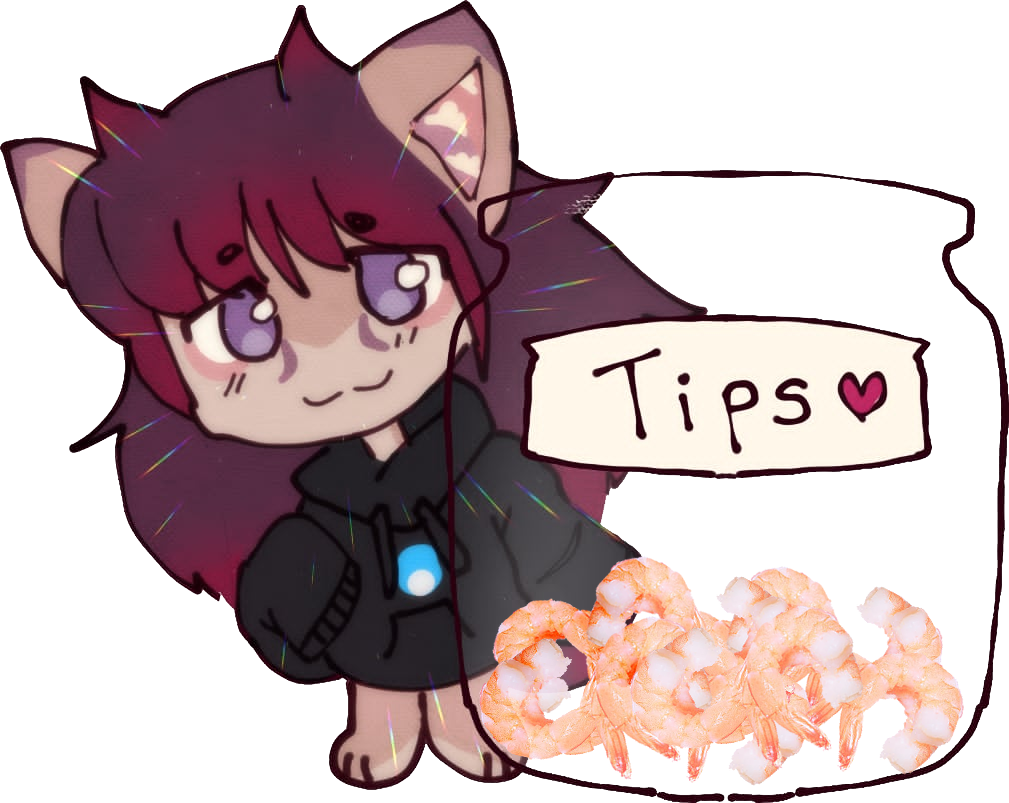
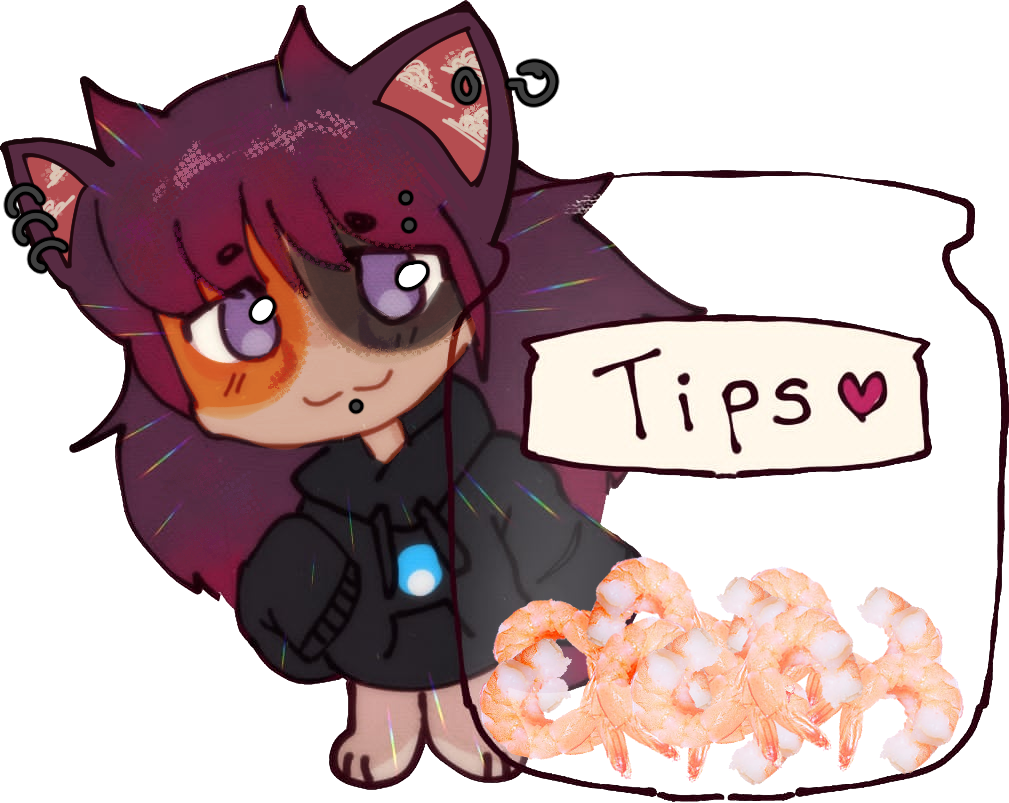
Updated images.

diff --git a/index.html b/index.html
@@ -1,12 +1,12 @@
 <!DOCTYPE html>
 <html lang="en">
 <head>
-	<meta name="generator" content="Hugo 0.160.1"><script src="/livereload.js?mindelay=10&amp;v=2&amp;port=1313&amp;path=livereload" data-no-instant defer></script>
+	<meta name="generator" content="Hugo 0.160.1">
     <meta charset="UTF-8">
     <meta name="viewport" content="width=device-width, initial-scale=1.0">
     <title> || ChabbyTabby</title>
     <link rel="icon" type="image/png" href="/images/introvertkittensignature.png">
-    <link rel="shortcut icon" href="/images/introvertkittensignature.png">
+    <link rel="shortcut icon" href="/images/introvertkittensignature2.png">
     <style>
          
         :root {
@@ -475,7 +475,7 @@
         <div class="top-bar">
             <div class="logo-container">
                 <a href="/">
-                    <img src="/images/introvertkittensignature.png" alt="Introvert Kitten Signature">
+                    <img src="/images/introvertkittensignature.png" alt="Introvert Kitten Signature" style="width: 200px !important; height: auto !important;">
                 </a>
             </div>
             <div class="status-container">
@@ -525,16 +525,15 @@
      
     
      
-    
     .top-art-banner {
-        border: 4px solid var(--hot-pink);
-        border-radius: var(--inner-radius);
+        border: 4px solid var(--hot-pink, #ff007f);  
+        border-radius: var(--inner-radius, 12px);
         overflow: hidden;
         margin-bottom: 25px;
         background: #000;
-        position: relative;  
-        padding-top: 15px;  
-        padding-bottom: 15px;  
+        position: relative;
+        padding-top: 15px;
+        padding-bottom: 15px;
     }
 
     .kitty-bar-overlay {
@@ -543,7 +542,7 @@
         width: 100%;
         height: auto;
         display: block;
-        z-index: 10;  
+        z-index: 10;
     }
     
     .kitty-bar-top { top: -2px; }
@@ -559,94 +558,97 @@
         background: transparent;
         padding: 0;
         box-shadow: none;
-        
-         
-        transition: all 0.2s ease;
     }
     
      
-    .layered-sticker-block:hover img {
-        filter: brightness(1.2) drop-shadow(0 0 10px rgba(255, 255, 255, 0.5));
+    .layered-sticker-block:hover .layered-base-img {
+        filter: brightness(1.1) drop-shadow(0 0 10px rgba(255, 255, 255, 0.3));
+    }
+    .layered-sticker-block:hover .layered-welcome {
+        transform: rotate(-5deg) scale(1.05);  
+        filter: drop-shadow(5px 5px 0px #000);  
+    }
+    .layered-sticker-block:hover .layered-enter {
+        transform: translateX(-50%) translateY(-5px) scale(1.05);  
     }
 
-     
     .layered-image-container {
         position: relative;
         width: 100%;
         text-align: center;
-         
         padding-top: 0; 
         padding-bottom: 0;
     }
 
-     
     .layered-base-img {
         width: 100%;
         max-width: 600px;
         border-radius: 8px;
-        border: 2px solid #333;  
+        border: 2px solid #333;
         display: inline-block;
+        transition: all 0.3s ease;
     }
 
-     
     .layered-welcome {
         position: absolute;
-        top: -20px;  
+        top: -20px; 
         left: -5%;
         max-width: 40%;
-        transform: rotate(-deg);  
-        z-index: 20;  
-        filter: drop-shadow(3px 3px 0px #000);  
+        transform: rotate(-12deg);  
+        z-index: 20; 
+        filter: drop-shadow(3px 3px 0px #000);
+        transition: all 0.3s cubic-bezier(0.25, 0.8, 0.25, 1);  
     }
-    
+
     .layered-label {
         position: absolute;
         top: -12%;
         left: -8%;
         width: 50%;
         max-width: 320px;
-        z-index: 15;            
-        
-         
+        z-index: 15;           
         border-radius: 18px; 
-        
-        box-shadow: 6px 6px 12px rgba(0, 0, 0, 0.6),
-                    inset 0 0 8px rgba(255,255,255,0.3);
-        
-         
+        box-shadow: 6px 6px 12px rgba(0, 0, 0, 0.6), inset 0 0 8px rgba(255,255,255,0.3);
         border: 1px solid #333; 
-        
         background: #000000;
         padding: 4px;
-        transform: rotate(-8deg);    
+        transform: rotate(-8deg);   
     }
+
     .layered-enter {
         position: absolute;
-        bottom: 25px;  
-        left: 30%;
-        transform: translateX(-50%);  
-        max-width: 200%;
-        z-index: 40;  
+        bottom: -5px;  
+        left: 50%;
+        transform: translateX(-50%); 
+        max-width: 60%;  
+        min-width: 150px;  
+        z-index: 40; 
         filter: drop-shadow(2px 2px 0px #000);
+        transition: all 0.3s cubic-bezier(0.25, 0.8, 0.25, 1);
     }
 
      
-    .comm-grid { display: grid; grid-template-columns: 1fr 1fr; gap: 20px; }
-    .tier-box { background: #111; border: 2px solid var(--hot-pink); border-radius: var(--inner-radius); padding: 12px; text-align: center; transition: 0.3s; }
-    .tier-box:hover { box-shadow: 0 0 15px var(--hot-pink); transform: translateY(-5px); }
+    .comm-grid { 
+        display: grid; 
+         
+        grid-template-columns: repeat(auto-fit, minmax(250px, 1fr)); 
+        gap: 20px; 
+    }
+    
+    .tier-box { background: #111; border: 2px solid var(--hot-pink, #ff007f); border-radius: var(--inner-radius, 12px); padding: 12px; text-align: center; transition: 0.3s; }
+    .tier-box:hover { box-shadow: 0 0 15px var(--hot-pink, #ff007f); transform: translateY(-5px); }
     .tier-box img { width: 100%; border: 1px solid #333; border-radius: 8px; margin-bottom: 10px; }
 
      
-    .workbench { background: #000; border: 2px dashed var(--hot-pink); border-radius: var(--inner-radius); padding: 15px; margin-top: 25px; }
-    .progress-container { background: #222; border: 1px solid var(--hot-pink); height: 28px; border-radius: 50px; margin-top: 10px; overflow: hidden; }
-    .progress-fill { background: linear-gradient(to right, #660066, var(--hot-pink)); height: 100%; }
+    .workbench { background: #000; border: 2px dashed var(--hot-pink, #ff007f); border-radius: var(--inner-radius, 12px); padding: 15px; margin-top: 25px; }
+    .progress-container { background: #222; border: 1px solid var(--hot-pink, #ff007f); height: 28px; border-radius: 50px; margin-top: 10px; overflow: hidden; }
+    .progress-fill { background: linear-gradient(to right, #660066, var(--hot-pink, #ff007f)); height: 100%; }
 
 </style>
 
 <div class="top-art-banner">
     <img src="/images/kittybar.gif" class="kitty-bar-overlay kitty-bar-top" alt="Animated Kitty Border Top">
-    <img src="/images/Image02.jpg" alt="Art Banner" style="width: 100%;">
-    <img src="/images/kittybar.gif" class="kitty-bar-overlay kitty-bar-bottom" alt="Animated Kitty Border Bottom">
+    <img src="/images/Image02.jpg" alt="Art Banner" style="width: 100%; display: block;"> <img src="/images/kittybar.gif" class="kitty-bar-overlay kitty-bar-bottom" alt="Animated Kitty Border Bottom">
 </div>
 
 <a href="/prices" class="layered-sticker-block">
@@ -654,32 +656,30 @@
         <img src="/images/label01.png" class="layered-label" alt="Label Background">
         <img src="/images/welcome.gif" class="layered-welcome" alt="Welcome">
         <img src="/images/welcomechabby.jpg" class="layered-base-img" alt="Commission info + examples">
-        
         <img src="/images/enter.gif" class="layered-enter" alt="Enter">
     </div>
 </a>
 
 <div class="comm-grid">
     <div class="tier-box">
-        <div style="font-weight: bold; margin-bottom: 8px; color: var(--hot-pink);">COLOR SKETCH</div>
-        <img src="/images/Image03.jpg">
-        <div style="font-weight: bold; color: var(--neon-yellow);">$35.00</div>
+        <div style="font-weight: bold; margin-bottom: 8px; color: var(--hot-pink, #ff007f);">COLOR SKETCH</div>
+        <img src="/images/Image03.jpg" alt="Color Sketch Example">
+        <div style="font-weight: bold; color: var(--neon-yellow, #eaff00);">$35.00</div>
     </div>
     <div class="tier-box">
-        <div style="font-weight: bold; margin-bottom: 8px; color: var(--hot-pink);">FULL RENDER</div>
-        <img src="/images/Image06.jpg">
-        <div style="font-weight: bold; color: var(--neon-yellow);">$85.00</div>
+        <div style="font-weight: bold; margin-bottom: 8px; color: var(--hot-pink, #ff007f);">FULL RENDER</div>
+        <img src="/images/Image06.jpg" alt="Full Render Example">
+        <div style="font-weight: bold; color: var(--neon-yellow, #eaff00);">$85.00</div>
     </div>
 </div>
 
 <div class="workbench">
-    <div style="font-weight: bold; color: var(--hot-pink);">ART PROGRESS:</div>
+    <div style="font-weight: bold; color: var(--hot-pink, #ff007f);">ART PROGRESS:</div>
     <p style="font-size: 0.8rem; color: #ccc;">Current Project: Illustration for @GalileoCat</p>
     <div class="progress-container">
         <div class="progress-fill" style="width: 75%;"></div>
     </div>
 </div>
-
 
 
 

diff --git a/prices/index.html b/prices/index.html
@@ -1,11 +1,11 @@
 <!DOCTYPE html>
 <html lang="en">
-<head><script src="/livereload.js?mindelay=10&amp;v=2&amp;port=1313&amp;path=livereload" data-no-instant defer></script>
+<head>
     <meta charset="UTF-8">
     <meta name="viewport" content="width=device-width, initial-scale=1.0">
     <title>PRICES || ChabbyTabby</title>
     <link rel="icon" type="image/png" href="/images/introvertkittensignature.png">
-    <link rel="shortcut icon" href="/images/introvertkittensignature.png">
+    <link rel="shortcut icon" href="/images/introvertkittensignature2.png">
     <style>
          
         :root {
@@ -474,7 +474,7 @@
         <div class="top-bar">
             <div class="logo-container">
                 <a href="/">
-                    <img src="/images/introvertkittensignature.png" alt="Introvert Kitten Signature">
+                    <img src="/images/introvertkittensignature.png" alt="Introvert Kitten Signature" style="width: 200px !important; height: auto !important;">
                 </a>
             </div>
             <div class="status-container">
@@ -685,7 +685,7 @@
     <h1 class="section-header">⭐ MAIN COMMISSIONS ⭐</h1>
     <div class="tier-grid">
         <div class="tier-card">
-            <img src="/images/Image01.jpg" alt="Icon Example">
+            <img src="/images/iconexample.png" alt="Icon Example">
             <h3 class="tier-title">Icon</h3>
             <div class="tier-price">$30</div>
             <div class="tier-desc">A head shot of your character</div>
@@ -696,7 +696,7 @@
             </div>
         </div>
         <div class="tier-card">
-            <img src="/images/Image04.jpg" alt="Half Body Example">
+            <img src="/images/nininnn.png" alt="Half Body Example">
             <h3 class="tier-title">Half-Body / Nomnoms</h3>
             <div class="tier-price">$70</div>
             <div class="tier-desc">Thigh / Bust Shot</div>
@@ -707,7 +707,7 @@
             </div>
         </div>
         <div class="tier-card">
-            <img src="/images/Image07.jpg" alt="Full Body Example">
+            <img src="/images/fullillustrationexample.png" alt="Full Body Example">
             <h3 class="tier-title">Full-Body Illustration</h3>
             <div class="tier-price">$150 <span style="font-size: 0.8rem; color: #fff;">(or $90 Just Fullbody)</span></div>
             <div class="tier-desc">Includes full background with one character</div>

diff --git a/tos/index.html b/tos/index.html
@@ -1,11 +1,11 @@
 <!DOCTYPE html>
 <html lang="en">
-<head><script src="/livereload.js?mindelay=10&amp;v=2&amp;port=1313&amp;path=livereload" data-no-instant defer></script>
+<head>
     <meta charset="UTF-8">
     <meta name="viewport" content="width=device-width, initial-scale=1.0">
     <title>tos || ChabbyTabby</title>
     <link rel="icon" type="image/png" href="/images/introvertkittensignature.png">
-    <link rel="shortcut icon" href="/images/introvertkittensignature.png">
+    <link rel="shortcut icon" href="/images/introvertkittensignature2.png">
     <style>
          
         :root {
@@ -474,7 +474,7 @@
         <div class="top-bar">
             <div class="logo-container">
                 <a href="/">
-                    <img src="/images/introvertkittensignature.png" alt="Introvert Kitten Signature">
+                    <img src="/images/introvertkittensignature.png" alt="Introvert Kitten Signature" style="width: 200px !important; height: auto !important;">
                 </a>
             </div>
             <div class="status-container">

diff --git a/links/index.html b/links/index.html
@@ -1,11 +1,11 @@
 <!DOCTYPE html>
 <html lang="en">
-<head><script src="/livereload.js?mindelay=10&amp;v=2&amp;port=1313&amp;path=livereload" data-no-instant defer></script>
+<head>
     <meta charset="UTF-8">
     <meta name="viewport" content="width=device-width, initial-scale=1.0">
     <title> || ChabbyTabby</title>
     <link rel="icon" type="image/png" href="/images/introvertkittensignature.png">
-    <link rel="shortcut icon" href="/images/introvertkittensignature.png">
+    <link rel="shortcut icon" href="/images/introvertkittensignature2.png">
     <style>
          
         :root {
@@ -474,7 +474,7 @@
         <div class="top-bar">
             <div class="logo-container">
                 <a href="/">
-                    <img src="/images/introvertkittensignature.png" alt="Introvert Kitten Signature">
+                    <img src="/images/introvertkittensignature.png" alt="Introvert Kitten Signature" style="width: 200px !important; height: auto !important;">
                 </a>
             </div>
             <div class="status-container">
